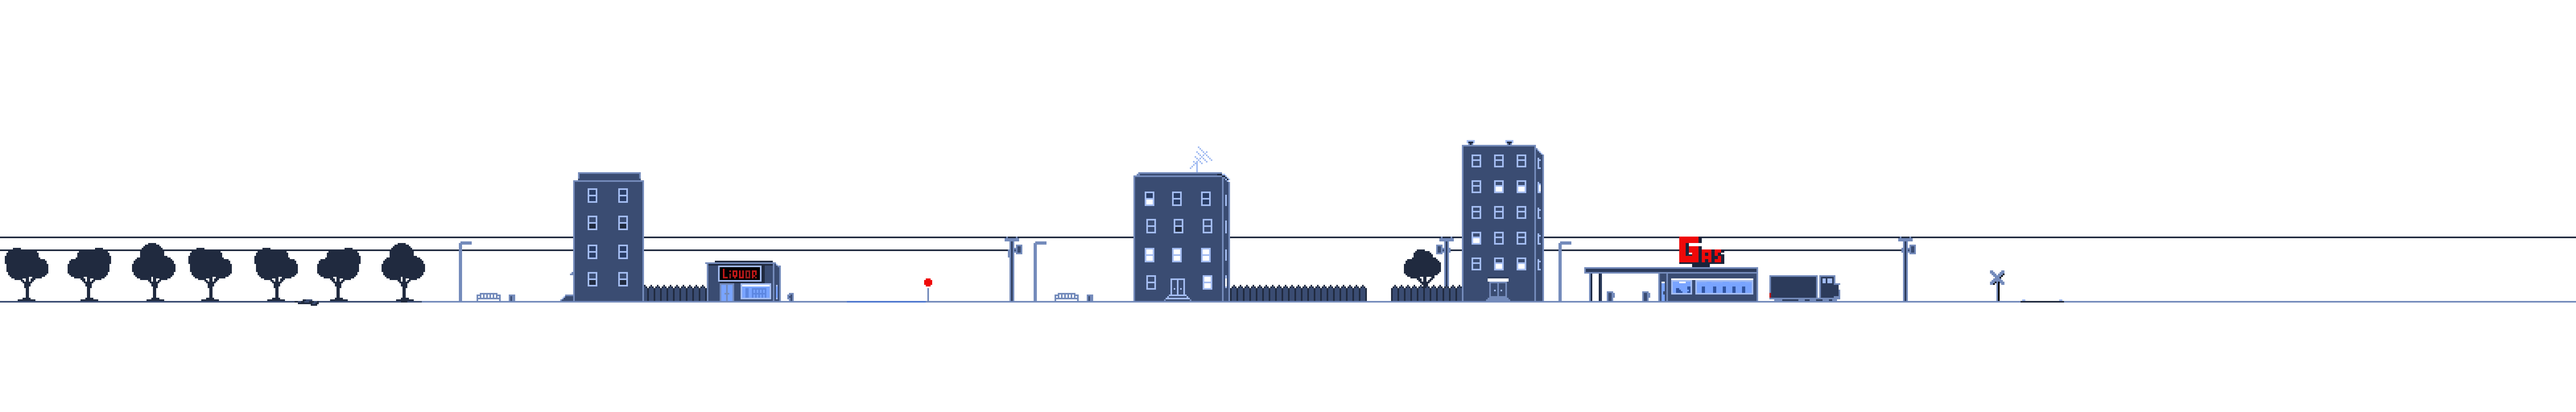
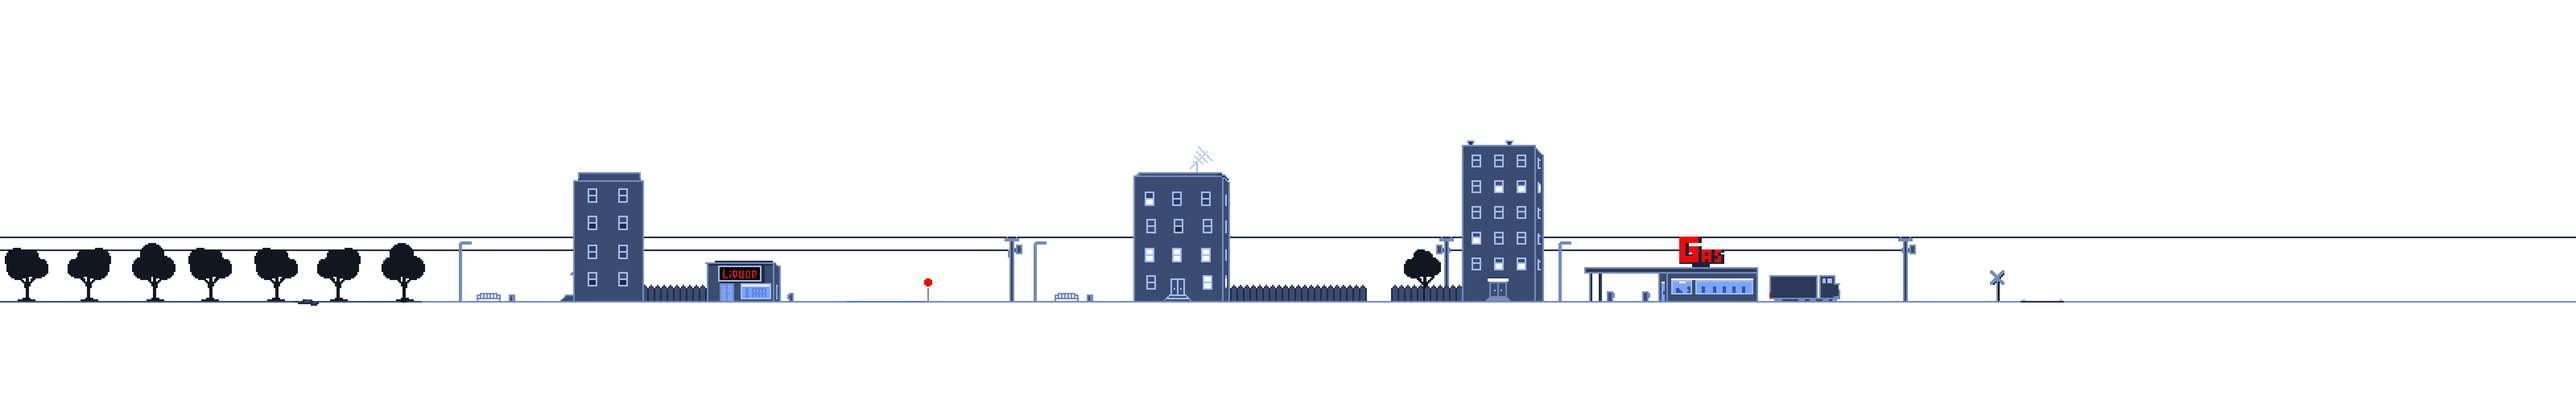
Another parallax layer

Changed region(s): [[0.0, 0.5938, 0.1875, 0.7188], [0.5312, 0.5938, 0.5625, 0.6875]]

diff --git a/main.cpp b/main.cpp
@@ -291,6 +291,7 @@ void LoadGameResources(GameResources& resources) {
     resources.ParkForeground = LoadTexture("assets/Park(foreground).png");
     resources.ParkMidground = LoadTexture("assets/Park(midground).png");
     resources.ParkBuildings = LoadTexture("assets/Park(buildings).png");
+    resources.MidBuildings = LoadTexture("assets/MidBuildings.png");
 }
 
 void UnloadGameResources(GameResources& resources){
@@ -2838,8 +2839,9 @@ void RenderOutside(GameResources& resources, Camera2D& camera,Player& player, Pl
     }
 
     camera.target = player.position;
-    float parallaxMidground = camera.target.x * 0.5f;  // Midground moves slower
-    float parallaxBackground = camera.target.x * 0.7f;  // Background moves even slower
+    float parallaxMidBuildings = camera.target.x * 0.4;
+    float parallaxMidground = camera.target.x * 0.6f;  // Midground moves slower
+    float parallaxBackground = camera.target.x * 0.8f;  // Background moves even slower
     
     BeginMode2D(camera);  // Begin 2D mode with the camera
     ClearBackground(customBackgroundColor);
@@ -2865,13 +2867,18 @@ void RenderOutside(GameResources& resources, Camera2D& camera,Player& player, Pl
 
     }
     
+    //background/midground width = 6400
+
      // Draw the background (sky)
     DrawTexturePro(resources.background, {0, 0, static_cast<float>(resources.background.width), static_cast<float>(resources.background.height)},
-                    {parallaxBackground, 0, static_cast<float>(resources.background.width), static_cast<float>(resources.background.height)}, {0, 0}, 0.0f, WHITE);
+                    {-1000 + parallaxBackground, 0, static_cast<float>(resources.background.width), static_cast<float>(resources.background.height)}, {0, 0}, 0.0f, WHITE);
 
     // Draw the midground (silhouettes)
     DrawTexturePro(resources.midground, {0, 0, static_cast<float>(resources.midground.width), static_cast<float>(resources.midground.height)},
                     {-3000 + parallaxMidground, 0, static_cast<float>(resources.midground.width), static_cast<float>(resources.midground.height)}, {0, 0}, 0.0f, WHITE);
+
+    DrawTexturePro(resources.MidBuildings, {0, 0, static_cast<float>(resources.midground.width), static_cast<float>(resources.midground.height)},
+                    {-3000 + parallaxMidBuildings, 0, static_cast<float>(resources.midground.width), static_cast<float>(resources.midground.height)}, {0, 0}, 0.0f, WHITE);
 
     // Draw the foreground (main scene),  offset by 1024 to center relative to midground. 
     DrawTexturePro(resources.foreground, {0, 0, static_cast<float>(resources.foreground.width), static_cast<float>(resources.foreground.height)},
@@ -3470,7 +3477,13 @@ int main() {
         if (totalTime > 10000.0f) totalTime -= 10000.0f; //reset total time just in case. 
             
         UpdateShaders(shaders, deltaTime, gameState);
-
+        if (player.hitTimer > 0){
+            float redVignetteColor[3] = { 1.0f, 0.0f, 0.0f }; // Red color
+            float sradius = 0.5; //lower radius to make the vignette more visible
+            // Set the vignette color in the shader
+            SetShaderValue(shaders.vignetteShader, shaders.radiusLoc, &sradius, SHADER_UNIFORM_FLOAT);
+            SetShaderValue(shaders.vignetteShader, shaders.vignetteColorLoc, redVignetteColor, SHADER_UNIFORM_VEC3);
+        }
 
         
         if (IsKeyPressed(KEY_A) || IsKeyPressed(KEY_D) || IsKeyPressed(KEY_LEFT) || IsKeyPressed(KEY_RIGHT)){ //tutorial text

diff --git a/shaderControl.cpp b/shaderControl.cpp
@@ -5,6 +5,9 @@
 #include "GameEnums.h"
 #include <raymath.h>
 
+
+
+
 void InitShaders(ShaderResources& shaders, int screenWidth, int screenHeight) {
     // Initialize random seed
     srand(static_cast<unsigned>(time(0)));
@@ -59,22 +62,27 @@ void InitShaders(ShaderResources& shaders, int screenWidth, int screenHeight) {
     float threshold = 0.5f;
     SetShaderValue(shaders.outlineShader, thresholdLoc, &threshold, SHADER_UNIFORM_FLOAT);
 
-    //setup vignette
+    //setup vignette////////////////////////////////////////////////////////////////
 
     int resolutionLoc = GetShaderLocation(shaders.vignetteShader, "resolution");
     int radiusLoc = GetShaderLocation(shaders.vignetteShader, "radius");
     int softnessLoc = GetShaderLocation(shaders.vignetteShader, "softness");
+    int vignetteColorLoc = GetShaderLocation(shaders.vignetteShader, "vignetteColor");
 
     // Set the uniform values
     //float resolution[2] = { (float)screenWidth, (float)screenHeight };
     SetShaderValue(shaders.vignetteShader, resolutionLoc, resolution, SHADER_UNIFORM_VEC2);
 
     // Vignette effect parameters
-    float radius = 1.0f;    // Starting radius (0.0 to 1.0)
-    float softness = 0.6f;  // Softness of the edges
+    float radius = 0.9f;    // Starting radius (0.0 to 1.0)
+    float softness = 0.5f;  // Softness of the edges
 
     SetShaderValue(shaders.vignetteShader, radiusLoc, &radius, SHADER_UNIFORM_FLOAT);
     SetShaderValue(shaders.vignetteShader, softnessLoc, &softness, SHADER_UNIFORM_FLOAT);
+
+        // Set the initial vignette color (e.g., black)
+    float vignetteColor[3] = { 0.0f, 0.0f, 0.0f }; // Black color
+    SetShaderValue(shaders.vignetteShader, vignetteColorLoc, vignetteColor, SHADER_UNIFORM_VEC3);
 
 
     //setup glitchVignetteShader
@@ -149,6 +157,8 @@ void UnloadShaders(ShaderResources& shaders) {
     UnloadShader(shaders.glowShader2);
     UnloadShader(shaders.outlineShader);
     UnloadShader(shaders.rainbowOutlineShader);
+    UnloadShader(shaders.vignetteShader);
+    UnloadShader(shaders.glitchVignetteShader);
 }
 
 void UpdateShaders(ShaderResources& shaders, float deltaTime, GameState& gameState) {
@@ -177,6 +187,26 @@ void UpdateShaders(ShaderResources& shaders, float deltaTime, GameState& gameSta
     // Set the glowThreshold uniform in the shader
     int glowThresholdLocation = GetShaderLocation(shaders.glowShader, "glowThreshold");
     SetShaderValue(shaders.glowShader, glowThresholdLocation, &glowThreshold, SHADER_UNIFORM_FLOAT);
+
+
+
+    // if (player.hitTimer > 0){
+        
+        
+    //     float redVignetteColor[3] = { 1.0f, 0.0f, 0.0f }; // Red color
+    //     float sradius = 0.8; //lower radius to make the vignette more visible
+    //     // Set the vignette color in the shader
+    //     SetShaderValue(shaders.vignetteShader, shaders.radiusLoc, &sradius, SHADER_UNIFORM_FLOAT);
+    //     SetShaderValue(shaders.vignetteShader, shaders.vignetteColorLoc, redVignetteColor, SHADER_UNIFORM_VEC3);
+ 
+        
+    // }else{
+       
+    //     float blackVignetteColor[3] = { 0.0f, 0.0f, 0.0f }; // Red color
+    //     float sradius = 1.0;
+    //     SetShaderValue(shaders.vignetteShader, shaders.radiusLoc, &sradius, SHADER_UNIFORM_FLOAT);
+    //     SetShaderValue(shaders.vignetteShader, shaders.vignetteColorLoc, blackVignetteColor, SHADER_UNIFORM_VEC3);
+    // }
     
 }
 

diff --git a/Player.cpp b/Player.cpp
@@ -8,6 +8,7 @@
 #include "SoundManager.h"
 #include <vector>
 #include "platform.h"
+#include "shaderControl.h"
 
 
 WeaponType currentWeapon;  // To track the current weapon
@@ -97,6 +98,7 @@ void Player::take_damage(int damage) {
             }else{
                 PlaySound(SoundManager::getInstance().GetSound("phit2"));
             }
+            
         }
         
         if (currentHealth <= 0) {
@@ -653,9 +655,12 @@ void Player::DrawPlayer(const GameResources& resources, GameState& gameState, Ca
 
     if (hitTimer > 0){
         hitTimer -= GetFrameTime();
+    
+ 
         
     }else{
         can_take_damage = true;
+
     }
 
 

diff --git a/shaderControl.h b/shaderControl.h
@@ -17,14 +17,16 @@ struct ShaderResources {
     Shader vignetteShader;
     Shader glitchVignetteShader;
     Shader pixelationShader;
-    Shader outlineGlowShader;
-    
+    Shader outlineGlowShader; 
     Shader rainbowOutlineShader;
+    
     int timeLoc;
     int glowThresholdLoc;
     int glowIntensityLoc;
     int resolutionLoc;
-    //int vignetteColorLoc;
+    int vignetteColorLoc;
+    int radiusLoc;
+
     // Add any other shader-related variables here
     float totalTime;
 };

diff --git a/NPC.cpp b/NPC.cpp
@@ -59,8 +59,6 @@ NPC::NPC(Texture2D npcTexture, Vector2 startPos, float npcSpeed, AnimationState 
 }
 
 
-
-
 // Function to get a random phrase
 std::string GetRandomPhrase() {
     std::vector<std::string> phrases = {

diff --git a/GameResources.h b/GameResources.h
@@ -80,6 +80,7 @@ struct GameResources {
     Texture2D ParkForeground;
     Texture2D ParkMidground;
     Texture2D ParkBuildings;
+    Texture2D MidBuildings;
     
 
     Font defaultFont;

diff --git a/Player.h b/Player.h
@@ -74,7 +74,7 @@ public:
     double tapInterval;
 
 
-    // Constructor
+    //declare class
     Player();
 
     // Methods
